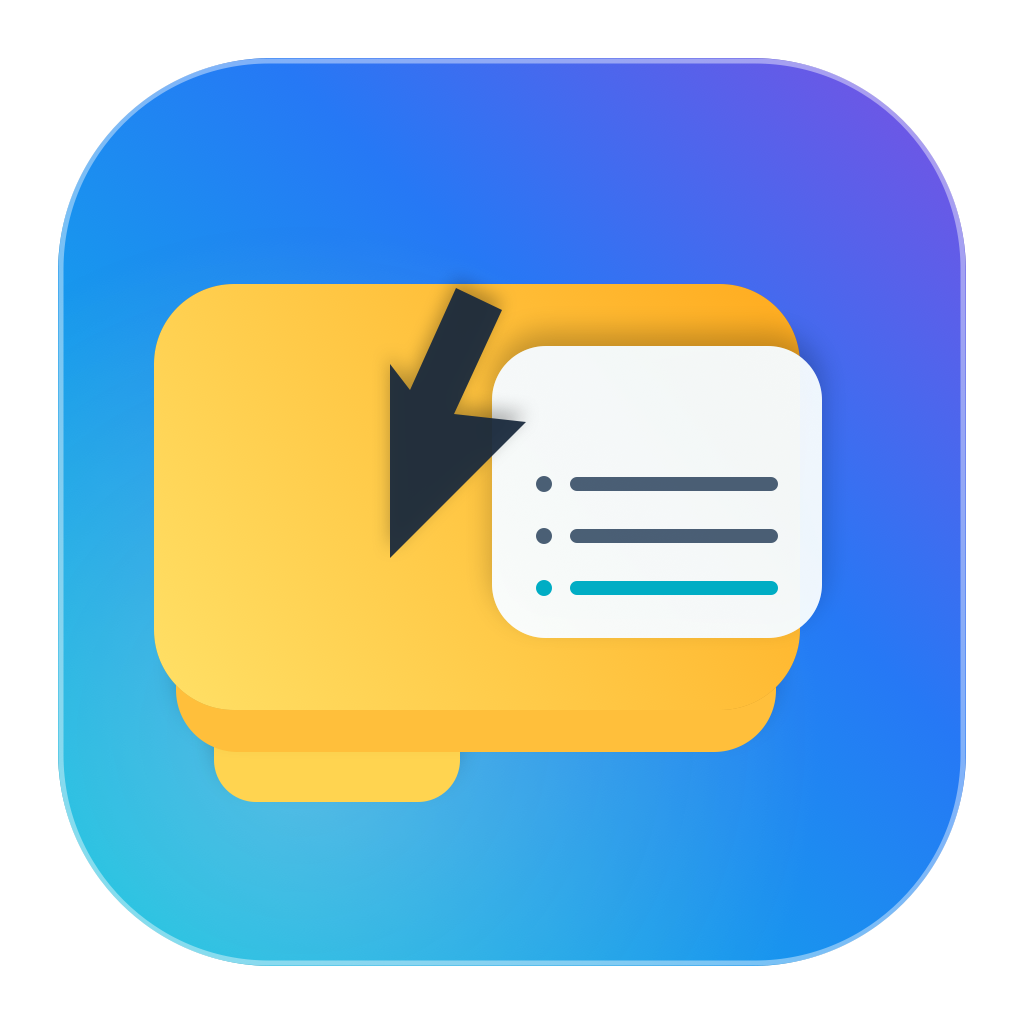
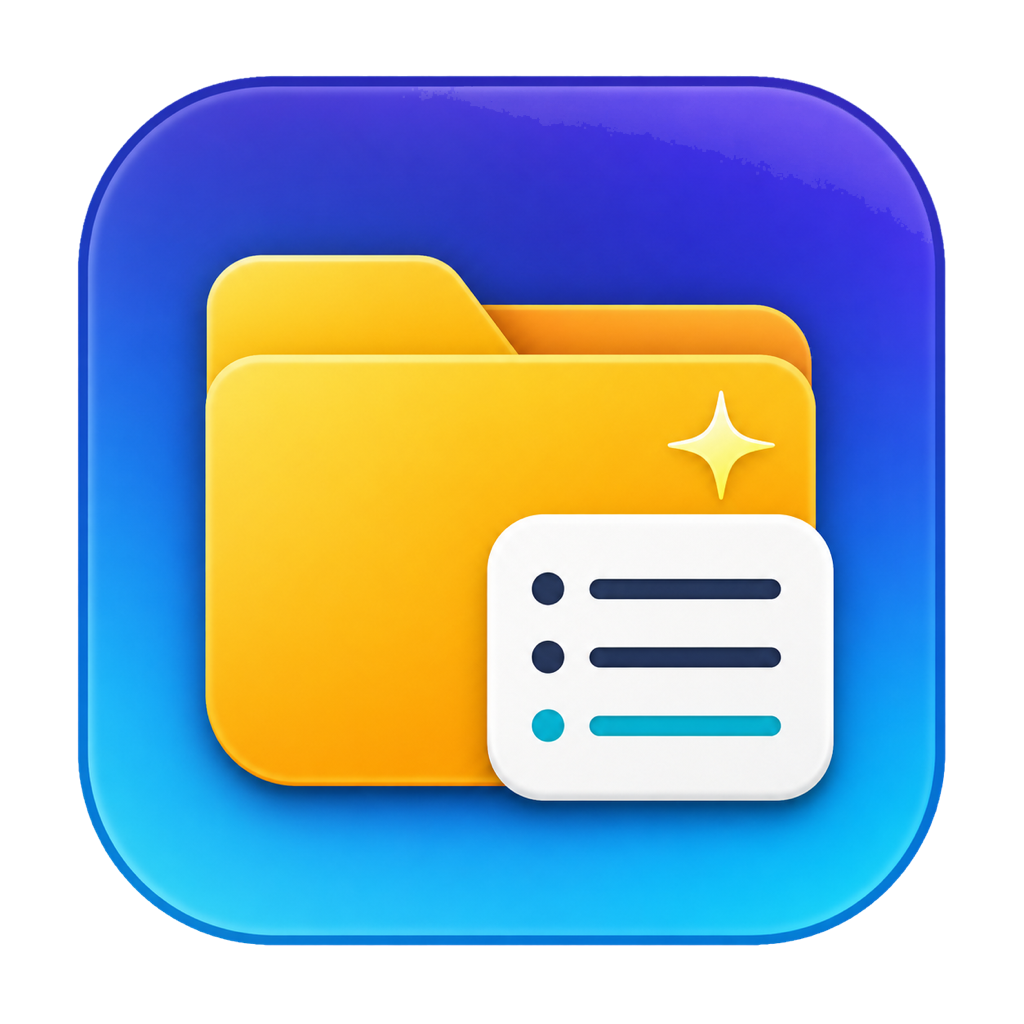
Release v1.1.0

diff --git a/App/AppDelegate.swift b/App/AppDelegate.swift
@@ -126,10 +126,10 @@ final class AppDelegate: NSObject, NSApplicationDelegate {
 
         let components = URLComponents(url: url, resolvingAgainstBaseURL: false)
         let queryItems = components?.queryItems ?? []
-        let query = Dictionary(uniqueKeysWithValues: queryItems.compactMap { item -> (String, String)? in
-            guard let value = item.value else { return nil }
-            return (item.name, value)
-        })
+        let query = queryItems.reduce(into: [String: String]()) { result, item in
+            guard let value = item.value else { return }
+            result[item.name] = value
+        }
 
         guard
             let kindValue = query["kind"],
@@ -205,7 +205,7 @@ final class AppDelegate: NSObject, NSApplicationDelegate {
     }
 
     private func handle(request: HostRequest) throws {
-        guard let action = HostAction(rawValue: request.action ?? HostAction.newFile.rawValue) else {
+        guard let actionValue = request.action, let action = HostAction(rawValue: actionValue) else {
             throw userFacingError("未知请求：\(request.action ?? "empty")")
         }
 
@@ -322,10 +322,7 @@ final class AppDelegate: NSObject, NSApplicationDelegate {
             throw CocoaError(.fileWriteNoPermission)
         }
 
-        let fileURL = uniqueFileURL(in: directory, preferredName: kind.fileName)
-        guard FileManager.default.createFile(atPath: fileURL.path, contents: kind.template) else {
-            throw CocoaError(.fileWriteUnknown)
-        }
+        let fileURL = try writeNewFileWithoutOverwriting(kind: kind, in: directory)
 
         if kind.isExecutable {
             try FileManager.default.setAttributes([.posixPermissions: 0o755], ofItemAtPath: fileURL.path)
@@ -334,26 +331,33 @@ final class AppDelegate: NSObject, NSApplicationDelegate {
         return fileURL
     }
 
-    private func uniqueFileURL(in directory: URL, preferredName: String) -> URL {
-        let fileManager = FileManager.default
-        let baseURL = directory.appendingPathComponent(preferredName)
+    private func writeNewFileWithoutOverwriting(kind: NewFileKind, in directory: URL) throws -> URL {
+        let preferredURL = directory.appendingPathComponent(kind.fileName)
+        let name = preferredURL.deletingPathExtension().lastPathComponent
+        let ext = preferredURL.pathExtension
 
-        if !fileManager.fileExists(atPath: baseURL.path) {
-            return baseURL
-        }
+        for index in 1..<10_000 {
+            let candidateName: String
+            if index == 1 {
+                candidateName = kind.fileName
+            } else {
+                candidateName = ext.isEmpty ? "\(name) \(index)" : "\(name) \(index).\(ext)"
+            }
 
-        let name = baseURL.deletingPathExtension().lastPathComponent
-        let ext = baseURL.pathExtension
-
-        for index in 2..<10_000 {
-            let candidateName = ext.isEmpty ? "\(name) \(index)" : "\(name) \(index).\(ext)"
             let candidate = directory.appendingPathComponent(candidateName)
-            if !fileManager.fileExists(atPath: candidate.path) {
+            do {
+                try kind.template.write(to: candidate, options: .withoutOverwriting)
                 return candidate
+            } catch let error as CocoaError where error.code == .fileWriteFileExists {
+                continue
             }
         }
 
-        return directory.appendingPathComponent(UUID().uuidString).appendingPathExtension(ext)
+        let fallback = directory
+            .appendingPathComponent(UUID().uuidString)
+            .appendingPathExtension(ext)
+        try kind.template.write(to: fallback, options: .withoutOverwriting)
+        return fallback
     }
 
     private func copyStatus(_ text: String) {

diff --git a/README.md b/README.md
@@ -2,9 +2,9 @@
 
 这是一个 Finder Sync Extension 版本，目标是把常用功能放到 Finder 右键菜单里，而不是放在“服务/快速操作”二级菜单中。
 
-## 正式版说明
+## v1.1.0 正式版说明
 
-这是当前正式版。新建文件后会先让 Finder 选中新文件，再模拟按下 `Return` 进入重命名。
+这是当前正式版。v1.1.0 重新设计了 App 图标，并改用原子“不覆盖”写入来新建文件，即使出现并发操作也不会覆盖已有同名文件。新建文件后会先让 Finder 选中新文件，再模拟按下 `Return` 进入重命名。
 
 这个行为需要 macOS 辅助功能权限。第一次使用时如果没有进入重命名，打开“系统设置 > 隐私与安全性 > 辅助功能”，允许 `MagicMenuLiteFinder`，然后再试一次。安装脚本会给 App 加一个稳定的本地签名要求，减少重装后辅助功能授权失效的情况。
 
@@ -48,8 +48,8 @@
 Xcode 安装完成后，在终端运行：
 
 ```sh
-cd /Users/linchengyu/Documents/Codex/2026-07-01/ssllix67-iboysoft-magicmenu-https-github-com
-chmod +x build-and-install.sh
+git clone https://github.com/lacayqwq/MagicMenuLiteFinder.git
+cd MagicMenuLiteFinder
 ./build-and-install.sh
 ```
 
@@ -80,3 +80,11 @@ Finder Sync Extension 必须保持沙盒，否则 macOS 会拒绝加载。为了
 新建文件时，Finder 扩展会短暂唤起主 App 创建文件；创建完成后主 App 会自动退出，不需要常驻后台。
 
 如果第一次在 `桌面`、`文稿`、`下载` 或外接/网络磁盘里新建文件，macOS 可能会弹出访问权限提示；允许后即可继续使用。失败时主 App 会弹窗显示具体错误，并把错误文本放入剪贴板。
+
+## 打包 Release
+
+```sh
+./package-release.sh
+```
+
+脚本会在 `dist/` 生成经 ad-hoc 签名的 zip 包和 SHA-256 校验文件。这个开源分发包没有 Apple Developer ID 公证；首次打开时可能需要在 Finder 中右键 App 并选择“打开”。

diff --git a/CHANGELOG.md b/CHANGELOG.md
@@ -1,0 +1,9 @@
+# Changelog
+
+## 1.1.0 - 2026-07-21
+
+- 重新设计 App 图标，简化为文件夹、菜单卡片和魔法星芒，提升小尺寸辨识度。
+- 新建文件改用原子不覆盖写入，消除并发操作下的同名文件覆盖窗口。
+- 拒绝缺失 `action` 的扩展请求，避免将损坏请求默认解释为新建文件。
+- 增强 URL 参数解析，重复查询键不再导致崩溃。
+- 统一 App 和 Finder 扩展的版本配置，新增可复现的 Release 打包流程。